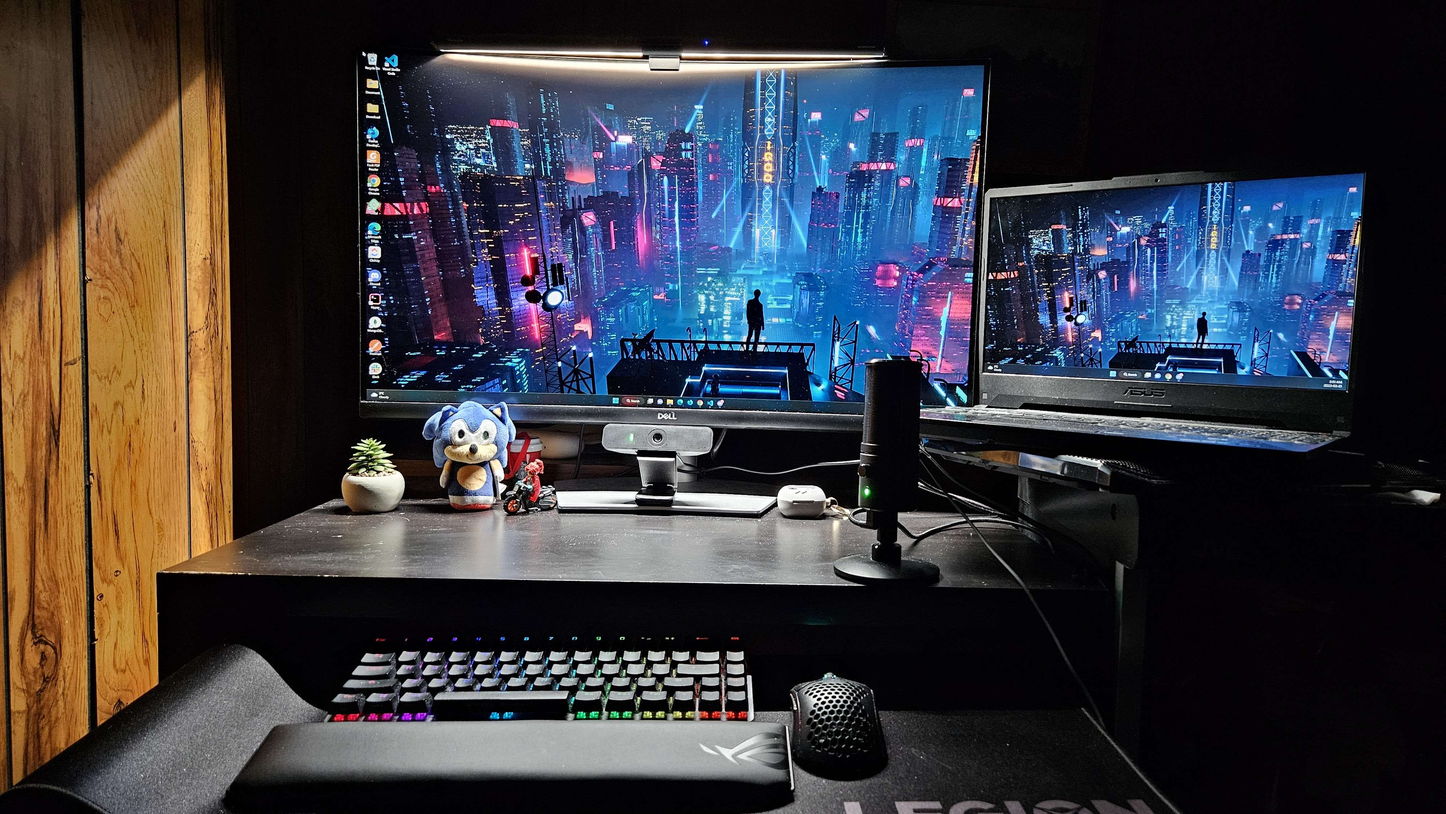
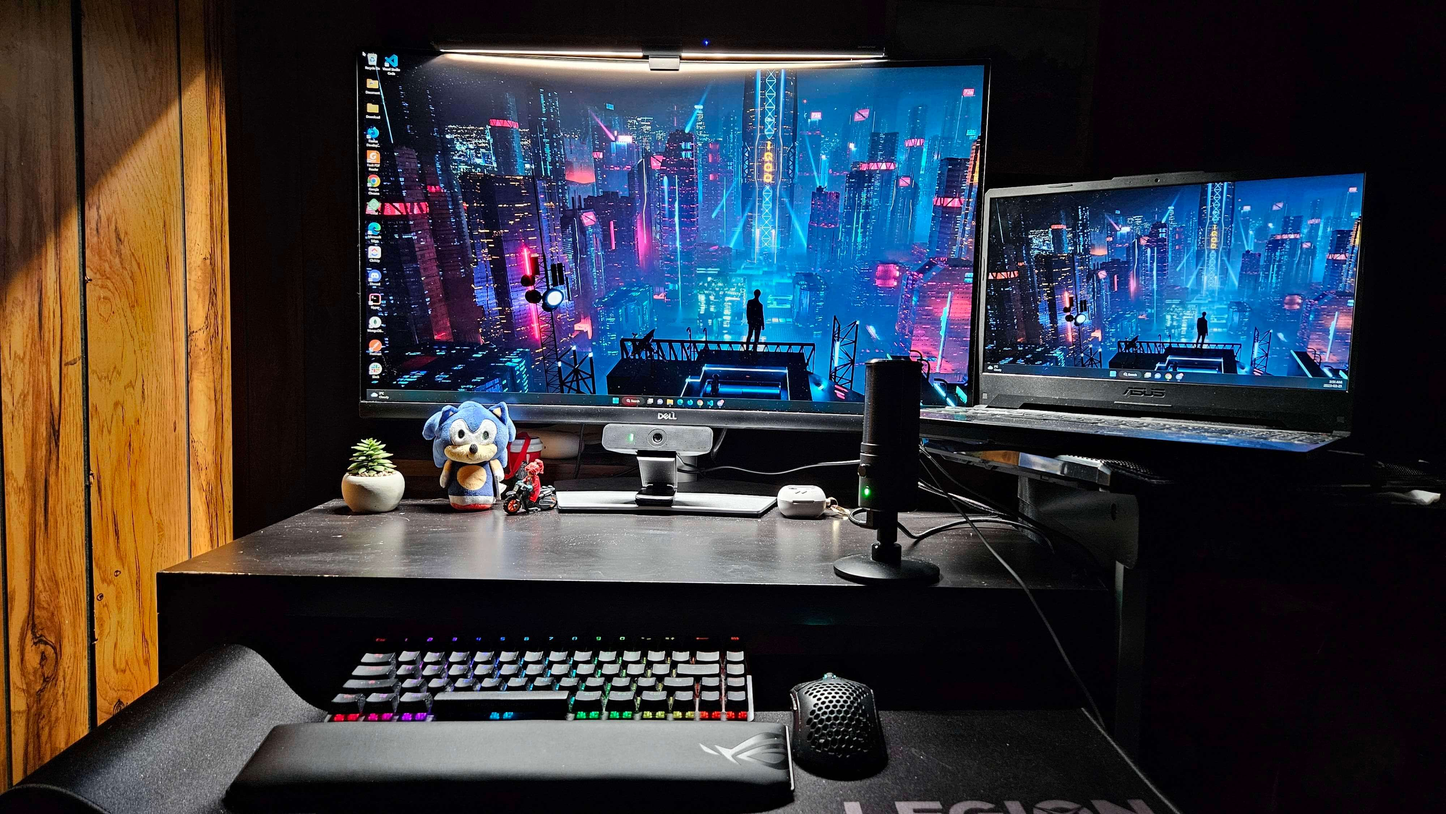
change to compressed image

diff --git a/src/app/(others)/uses/page.tsx b/src/app/(others)/uses/page.tsx
@@ -1,10 +1,11 @@
 // @ts-nocheck
 
-import { Image, Title } from '@/components/common';
+import { Title } from '@/components/common';
 import { ItemGrid } from '@/components/Uses';
 import { USES_ITEMS } from '@/config/uses';
 
 import type { Metadata } from 'next';
+import Image from 'next/image';
 
 export const metadata: Metadata = {
   title: 'Uses | Minh Tu Ngo',
@@ -21,8 +22,8 @@ export default function UsesPage() {
       />
       <Image
         src='/static/images/uses/room.jpg'
-        width={1920}
-        height={1080}
+        width={1000}
+        height={580}
         alt='Room'
         className='mb-4 h-full w-full rounded-lg object-cover object-top shadow-lg lg:w-[70%]'
       />
